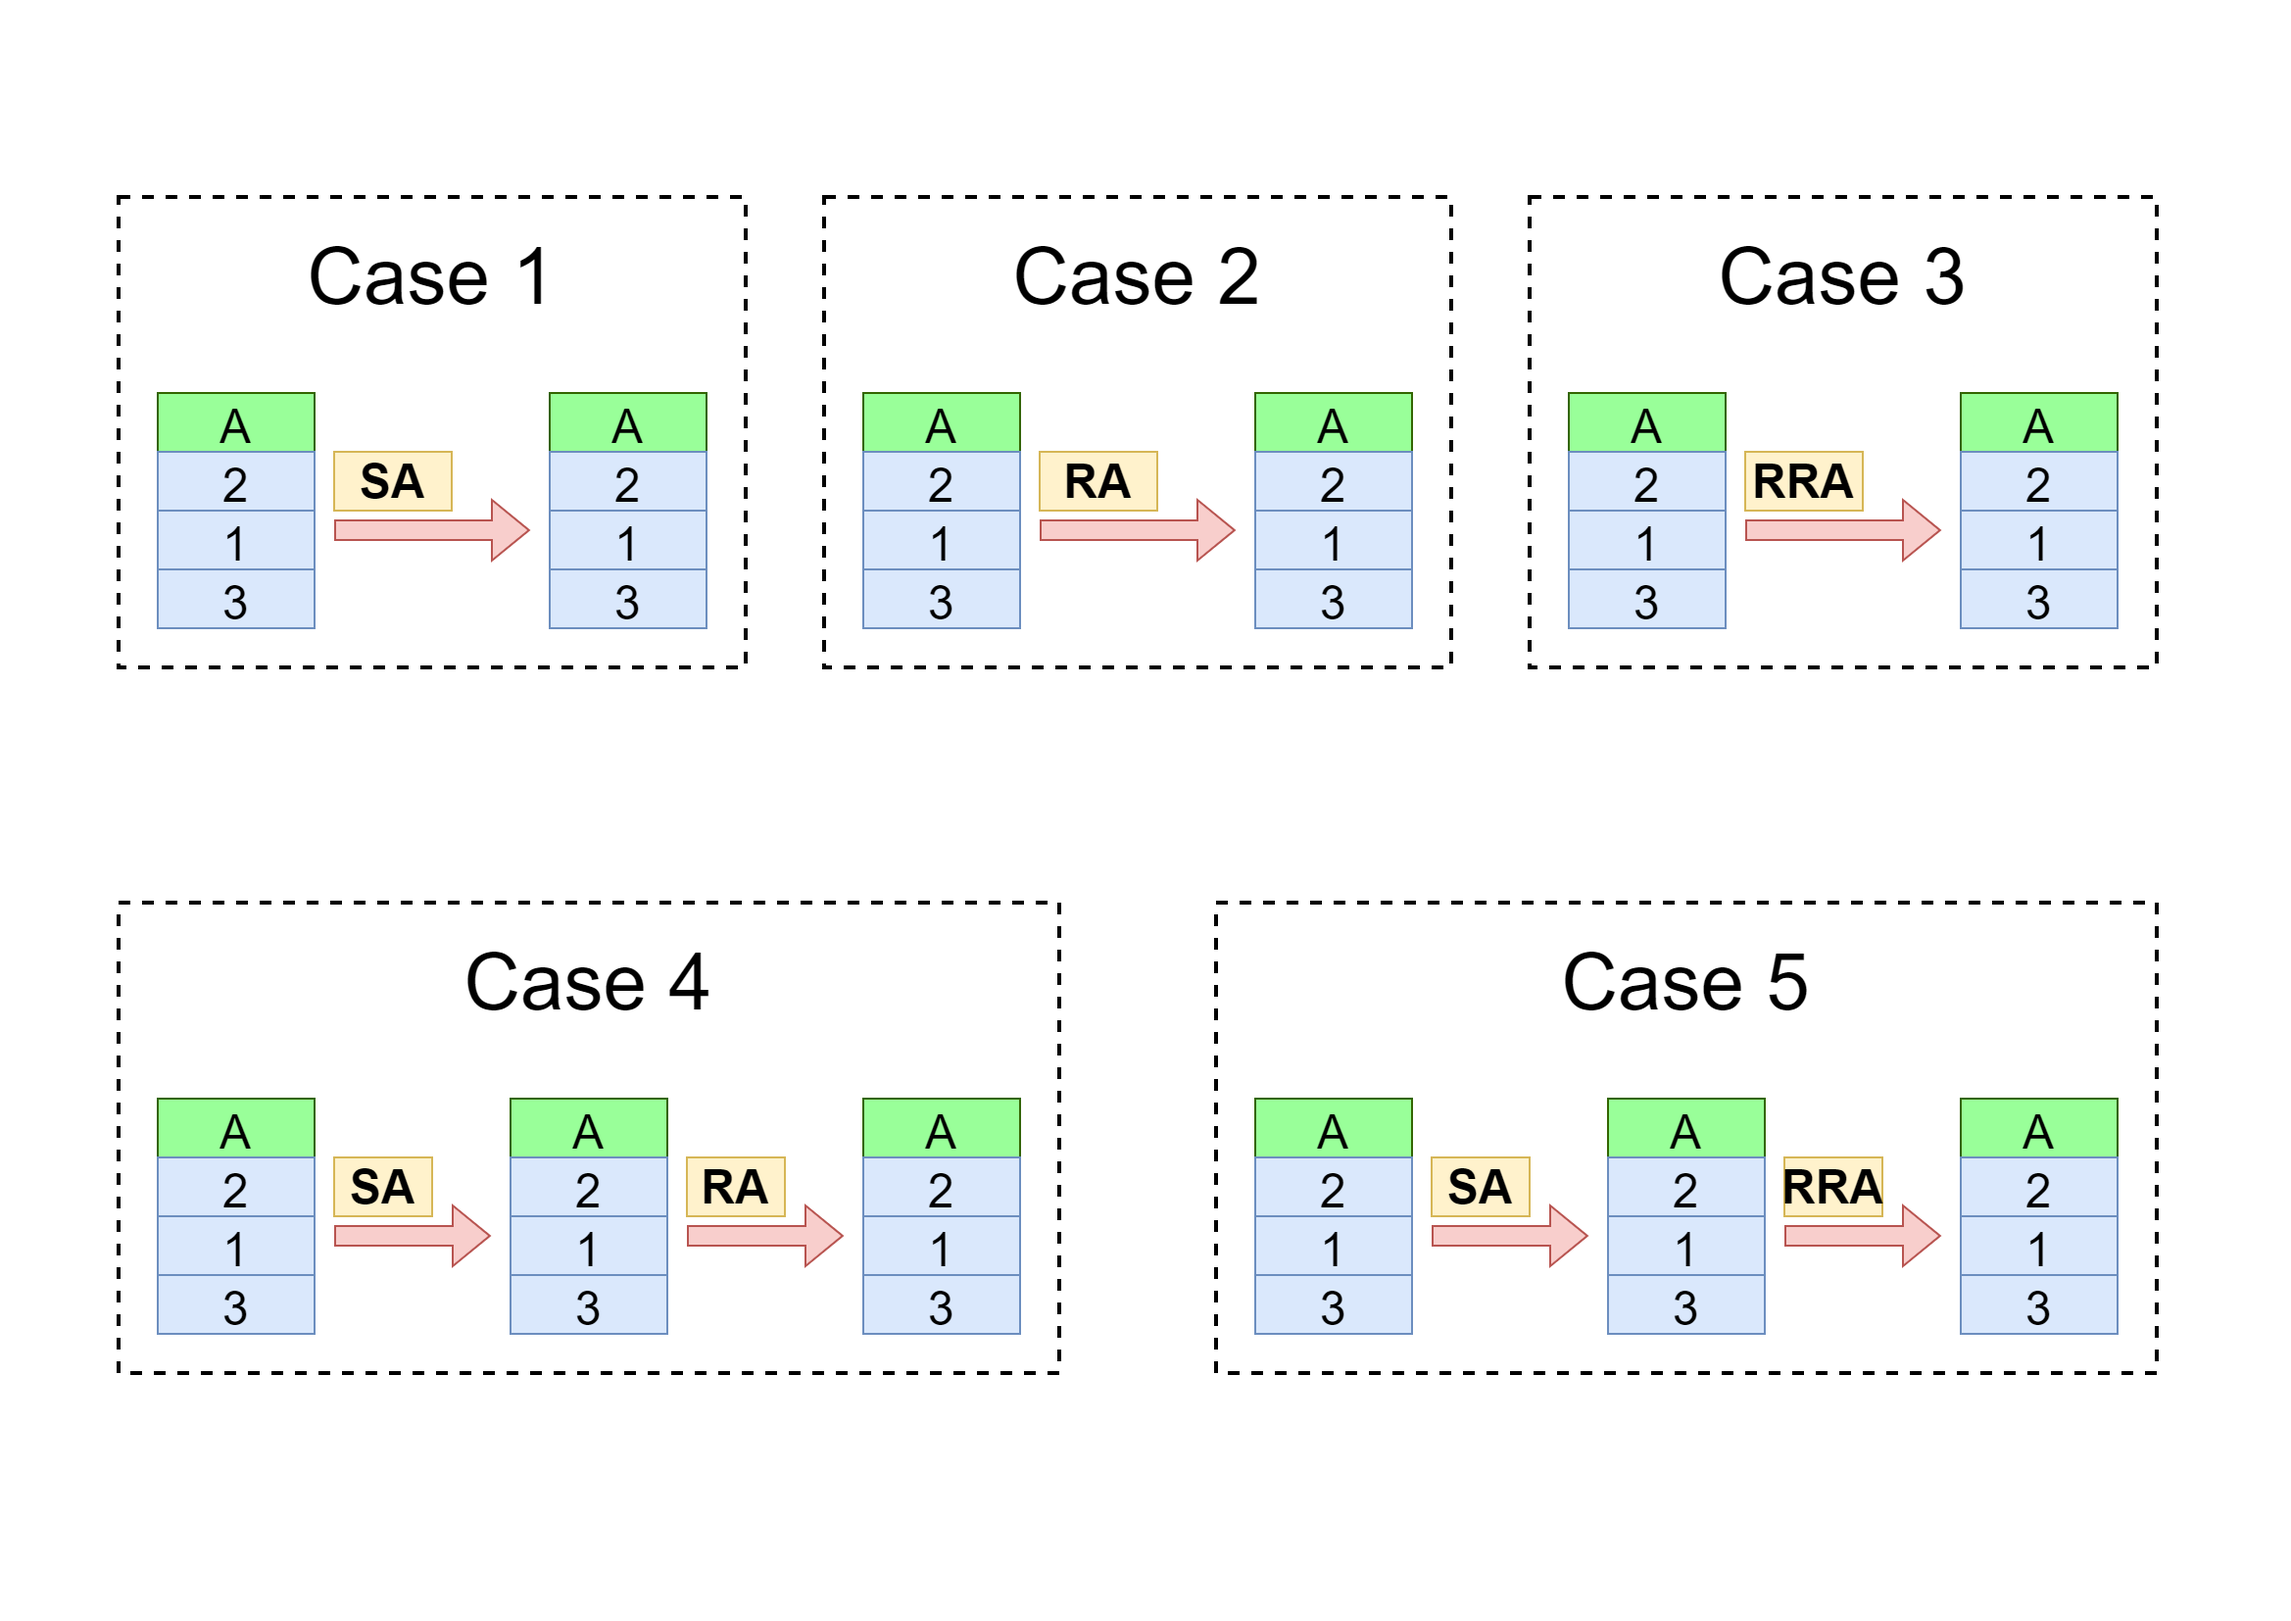
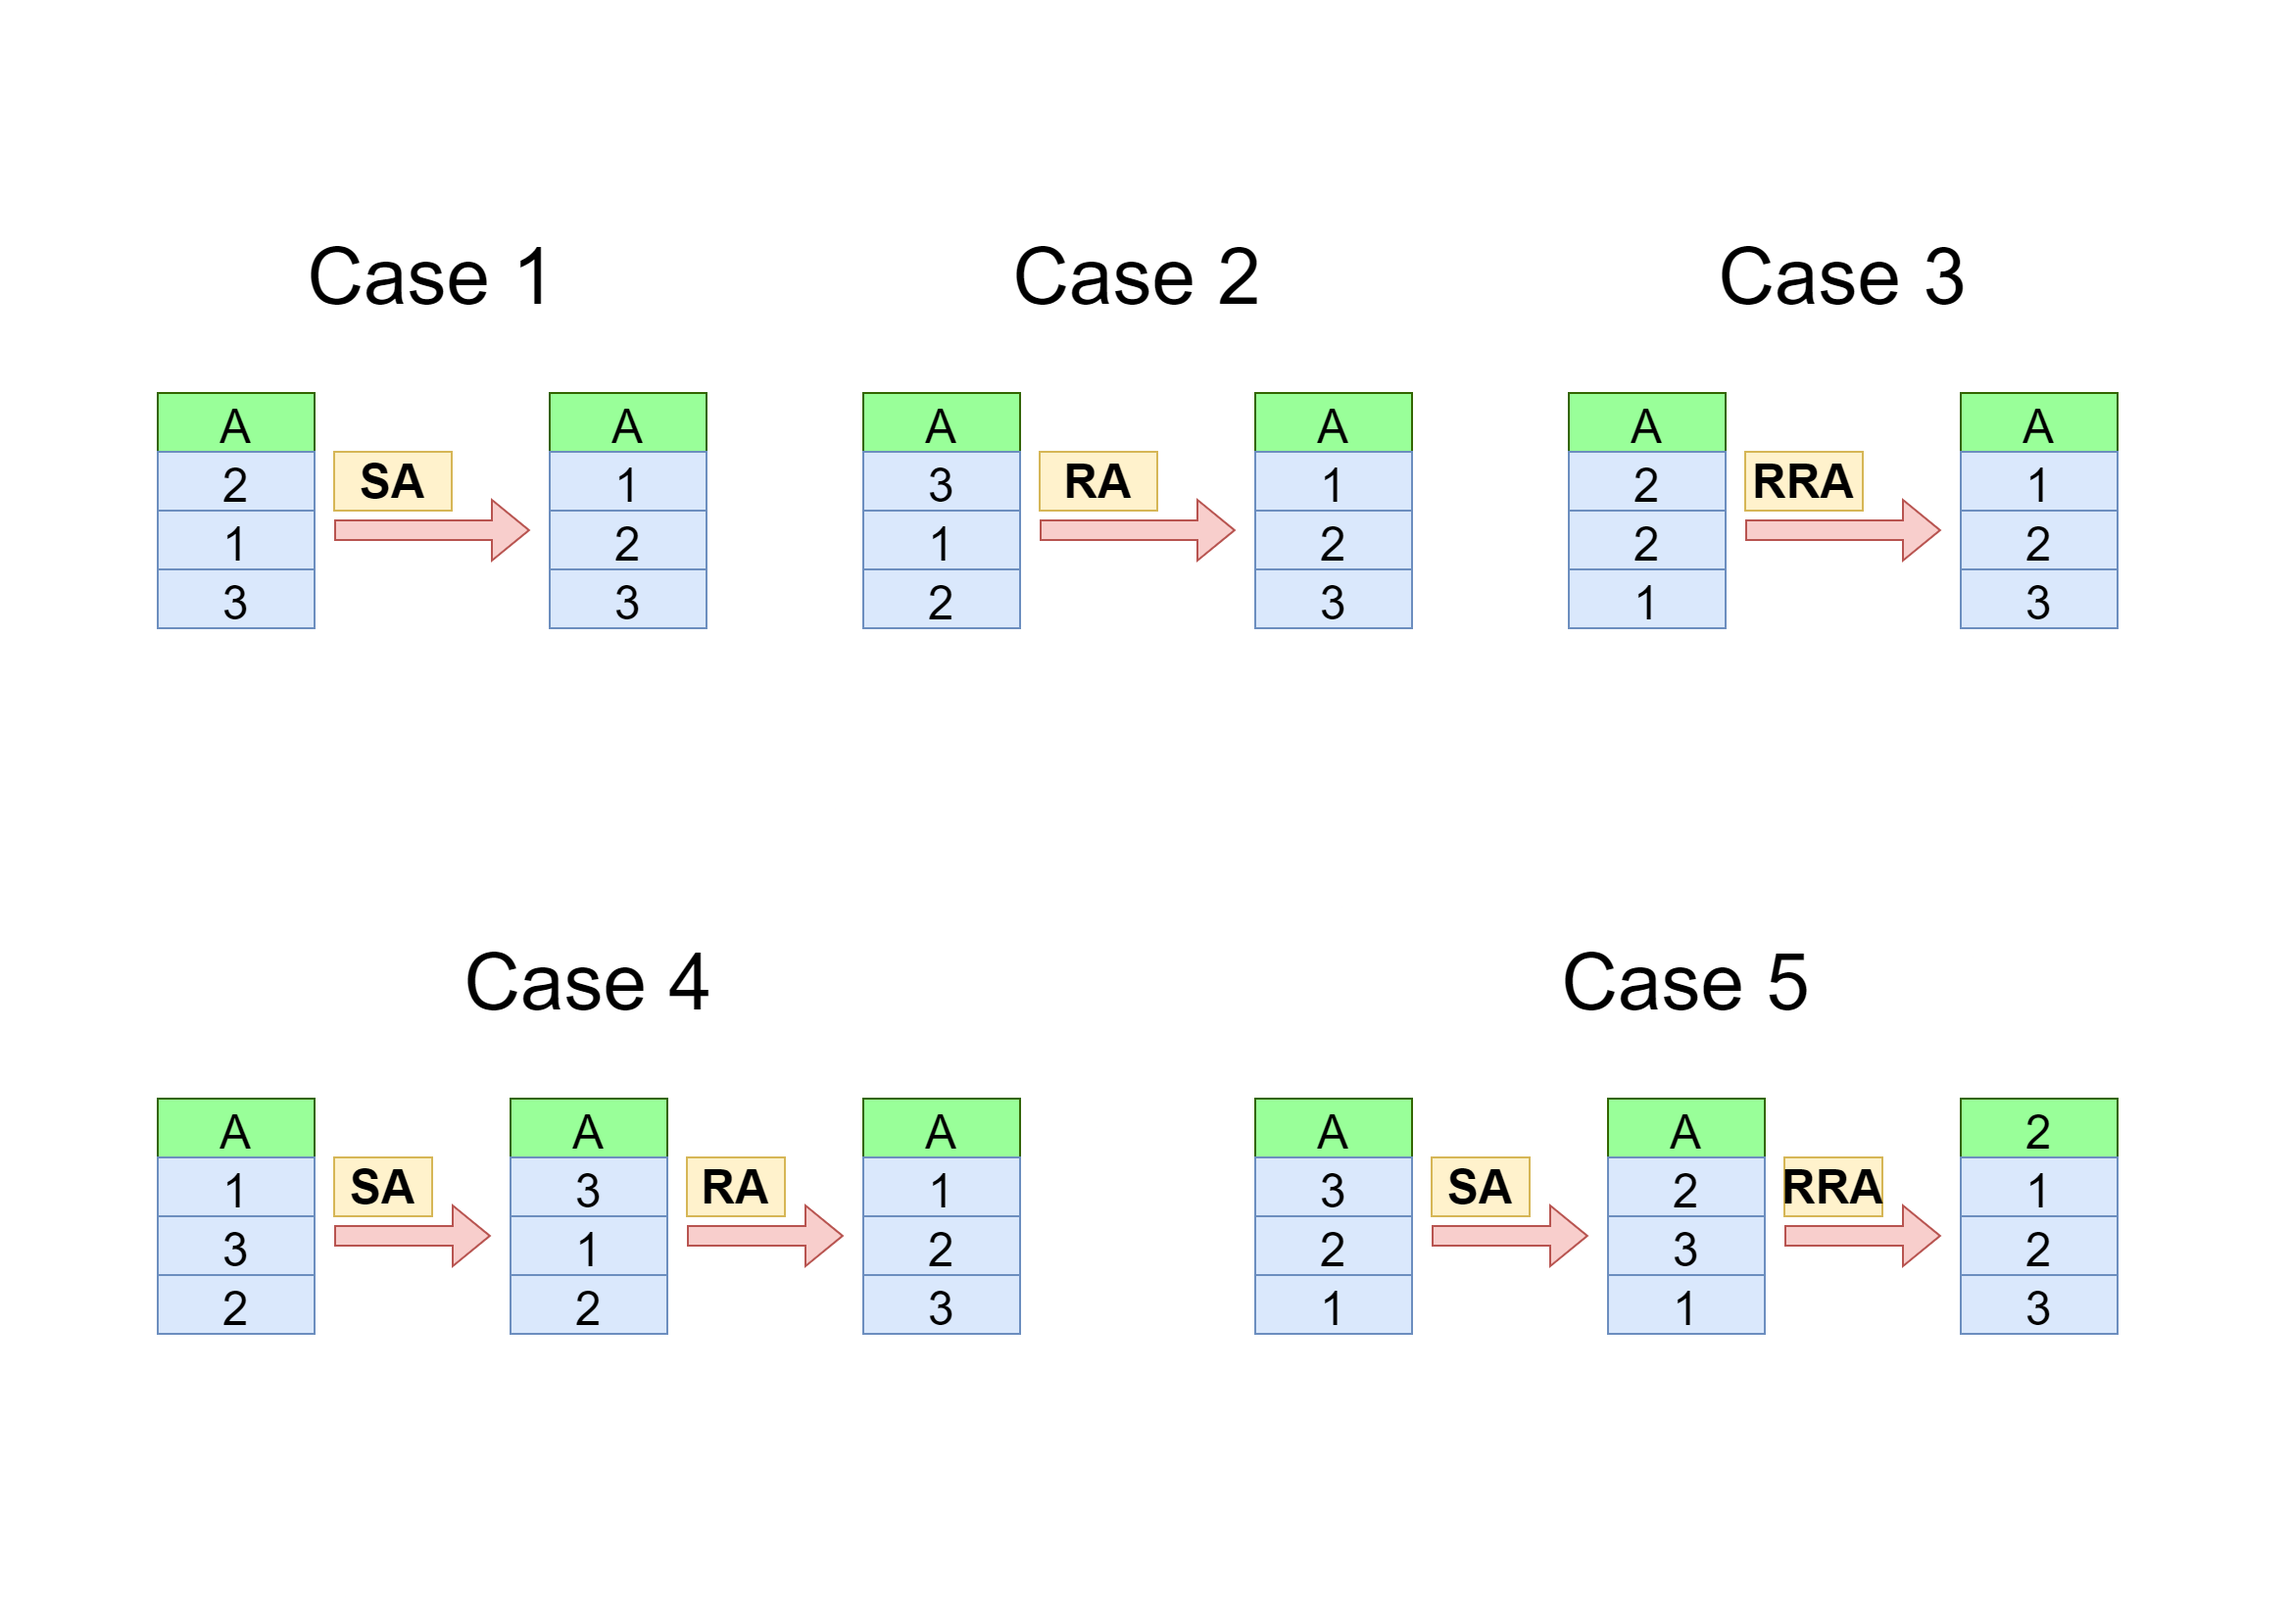
Fix diagram sort_three

diff --git a/src/sort_small_utils.c b/src/sort_small_utils.c
@@ -1,0 +1,13 @@
+/* ************************************************************************** */
+/*                                                                            */
+/*                                                        :::      ::::::::   */
+/*   sort_small_utils.c                                 :+:      :+:    :+:   */
+/*                                                    +:+ +:+         +:+     */
+/*   By: dpoveda- <me@izenynn.com>                  +#+  +:+       +#+        */
+/*                                                +#+#+#+#+#+   +#+           */
+/*   Created: 2021/10/12 12:58:51 by dpoveda-          #+#    #+#             */
+/*   Updated: 2021/10/12 12:58:58 by dpoveda-         ###   ########.fr       */
+/*                                                                            */
+/* ************************************************************************** */
+
+#include <push_swap.h>

diff --git a/src/sort_small.c b/src/sort_small.c
@@ -38,12 +38,11 @@ static void	sort_3(t_global *tab)
 		rra(tab);
 }
 
-static void	sort_5(int n_cnt, t_global *tab)
+static void	sort_5(t_global *tab)
 {
-	// TODO: pasar los (n_cnt - 3) mas pquenos a b
-	;
+	n_ops(pb, tab, tab->a_sz - 3);
 	sort_3(tab);
-	n_ops(pa, tab, n_cnt - 3);
+	n_ops(pa, tab, tab->b_sz);
 }
 
 void	sort_small(int n_cnt, t_global *tab)
@@ -56,5 +55,5 @@ void	sort_small(int n_cnt, t_global *tab)
 	else if (n_cnt == 3)
 		sort_3(tab);
 	else
-		sort_5(n_cnt, tab);
+		sort_5(tab);
 }

diff --git a/src/push_swap.c b/src/push_swap.c
@@ -34,7 +34,7 @@
 	ft_printf("|---------------------------|\n\n");
 }*/
 
-static void	show_tab(int n, t_global *tab)
+/*static void	show_tab(int n, t_global *tab)
 {
 	int	a_sz;
 	int	b_sz;
@@ -64,7 +64,7 @@ static void	show_tab(int n, t_global *tab)
 			ft_printf("|             |\n");
 	}
 	ft_printf("|-------------|-------------|\n\n");
-}
+}*/
 
 /*void	leaks(void)
 {
